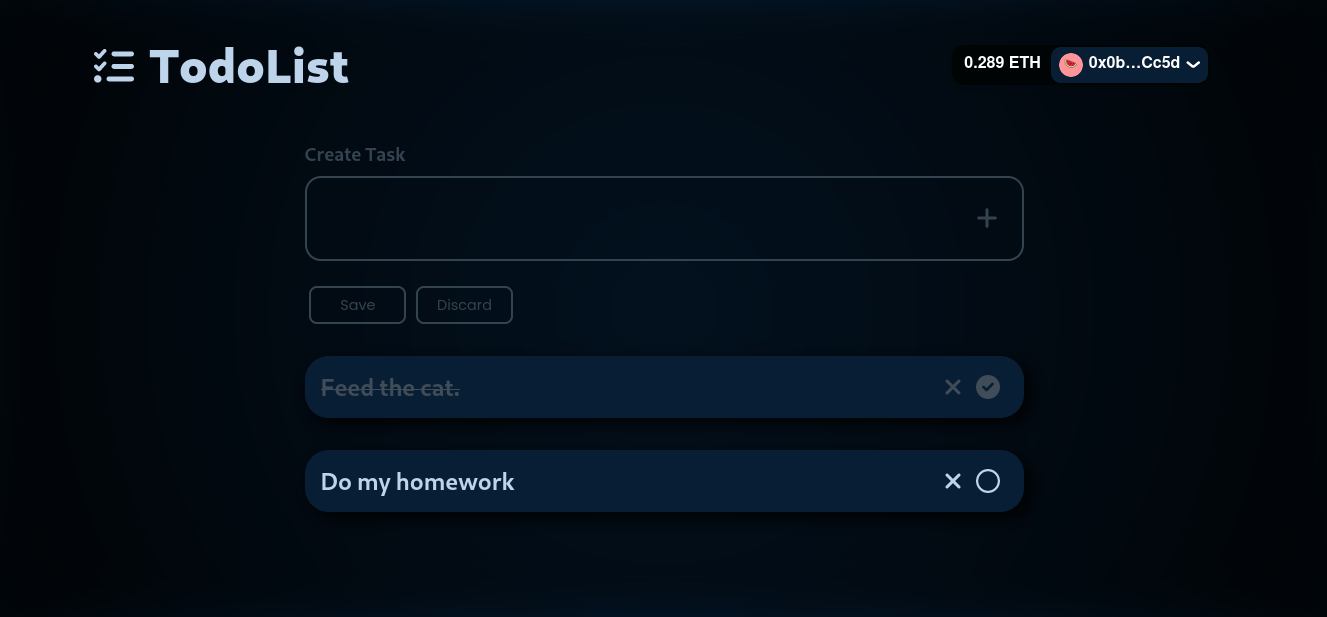
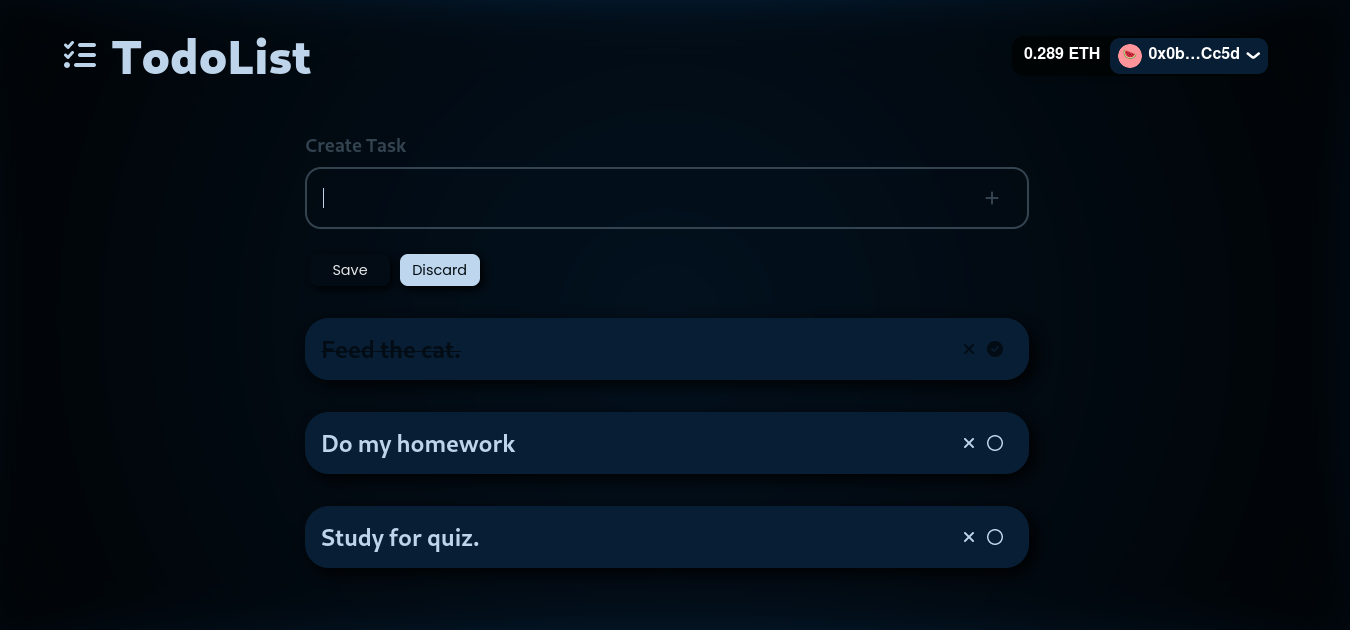
improve styling

diff --git a/src/components/Task.tsx b/src/components/Task.tsx
@@ -25,17 +25,16 @@ function Task(props: Task) {
     props.handleTaskDeletion(props.index);
   }
 
-  const color = isCompleted ?  "#404C57" : "#BDD4EA" ;
+  const color = isCompleted ?  "#030C15" : "#BDD4EA" ;
   const textDecoration = isCompleted ? "line-through" : "";
   const logo = isCompleted ? faCircleCheck : faCircle;
-
 
 
   return <div draggable className="task"> 
     <h1 style={{color: color, textDecoration: textDecoration}}>{props.content}</h1>
     <div className="task-buttons">
-      <FontAwesomeIcon style={{color: color}} className="button" onClick={handleDelete} icon={faXmark} />
-      <FontAwesomeIcon style={{color: color}} className="button" onClick={handleFinish} icon={logo} />
+      <FontAwesomeIcon style={{color: color}} className="task-button" onClick={handleDelete} icon={faXmark} />
+      <FontAwesomeIcon style={{color: color}} className="task-button" onClick={handleFinish} icon={logo} />
     </div>
   </div>
 }

diff --git a/src/components/Dashboard.css b/src/components/Dashboard.css
@@ -2,9 +2,8 @@
   display: flex;
   flex-direction: column;
   justify-content: center;
-  width: 80%;
+  width: 60%;
   max-width: 80rem;
-  min-width: 20rem;
 }
 
 .menu {
@@ -24,6 +23,7 @@
   font-size: 0.9rem;
   cursor: pointer;
   font-family: "Poppins", sans-serif;
+  transition: all .2s ease-in-out;
 }
 
 .menu .button-disabled {
@@ -34,24 +34,23 @@
 }
 
 .menu .button-save {
+  background-color: #030C15;
+  color: #E5E5E5
+}
+
+.menu .button-discard {
   background-color: #BED7EE;
   color: #030B10;
 }
 
-.menu .button-discard {
-  background-color: #324758;
-  color: #E5E5E5
+.menu button:not(.button-disabled):hover {
+  transform: scale(1.05)
 }
 
-.menu .button-save:hover {
-  background-color: #8394A3;
-}
-
-.menu .button-discard:hover {
-  background-color: #2E4252;
-
-}
 
 @media only screen and (max-width: 650px) {
+  .dashboard {
+    min-width: 20rem;
+  }
 }
 

diff --git a/src/components/Task.css b/src/components/Task.css
@@ -8,15 +8,18 @@
   flex-direction: row;
   justify-content: space-between;
   align-items: center;
+
+  transition: all .2s ease-in-out;
 }
 
-.button {
-  margin: 0 0.7rem;
-  cursor: pointer;
+.task h1 {
+  transition: all .5s ease-in-out;
 }
 
 .task-button {
+  margin: 0 0.2rem;
   padding: 0 0.4rem 0 0;
+  cursor: pointer;
 }
 
 

diff --git a/src/components/Header.css b/src/components/Header.css
@@ -29,12 +29,17 @@
   .header {
     display: flex;
     flex-direction: column;
+    align-items: center;
+    justify-content: center;
   }
   .header h1 {
     margin-bottom: 0.5rem;
   }
   .title {
     margin-bottom: 1rem;
+  }
+  .connect-button {
+    min-width: 10rem;
   }
 }
 

diff --git a/src/components/Header.tsx b/src/components/Header.tsx
@@ -10,7 +10,10 @@ function Header() {
         <FontAwesomeIcon className="logo" icon={faListCheck} size="2x"/>
         <h1> TodoList</h1>
       </div>
-      <ConnectButton />
+
+      <div className="connect-button"> 
+        <ConnectButton />
+      </div>
     </section>;
 }
 

diff --git a/src/components/TaskInput.css b/src/components/TaskInput.css
@@ -26,6 +26,12 @@
   margin-right: 0.75rem;
   margin-left: 0.75rem;
   cursor: pointer;
+  transition: all .5s ease-in-out;
+}
+
+.task-input .add-icon:hover {
+  transform: scale(1.1);
+  color: var(--white)
 }
 
 .task-input-container h3 {
